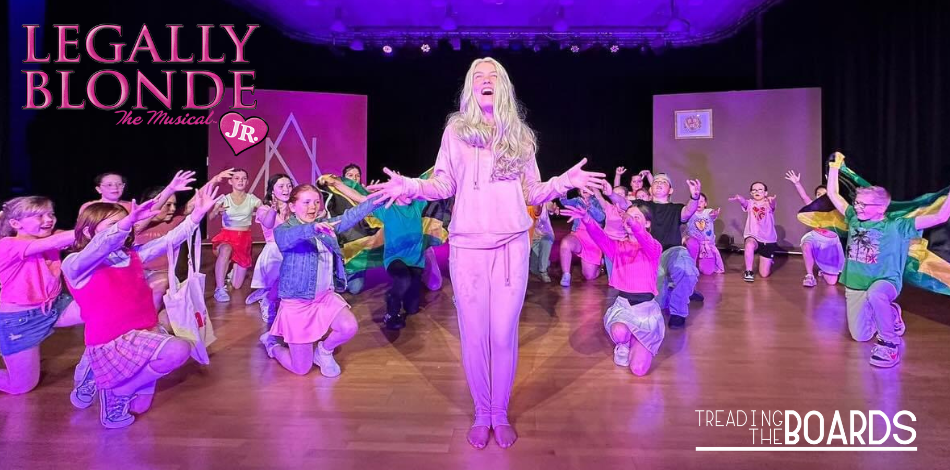
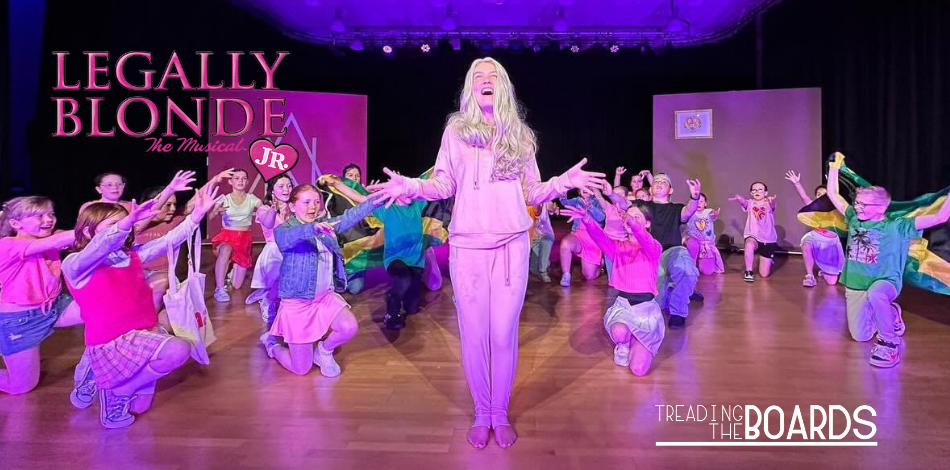
update

Changed region(s): [[0.0, 0.0298, 0.3358, 0.3872], [0.6716, 0.8638, 0.9768, 0.983]]

diff --git a/src/components/Hero.vue b/src/components/Hero.vue
@@ -26,7 +26,7 @@
       </div>
     </div>
     <div class="lg:absolute lg:inset-y-0 lg:right-0 lg:w-1/2">
-      <img class="h-56 w-full object-cover sm:h-72 md:h-96 lg:w-full lg:h-full filter" src="/images/hero.png" alt="Treading the boards students performing Legally Blonde Jr in 2024" />
+      <img class="h-56 w-full object-cover sm:h-72 md:h-96 lg:w-full lg:h-full" src="/images/hero.png" alt="Treading the boards students performing Legally Blonde Jr in 2024" />
     </div>
   </div>
 </template>
